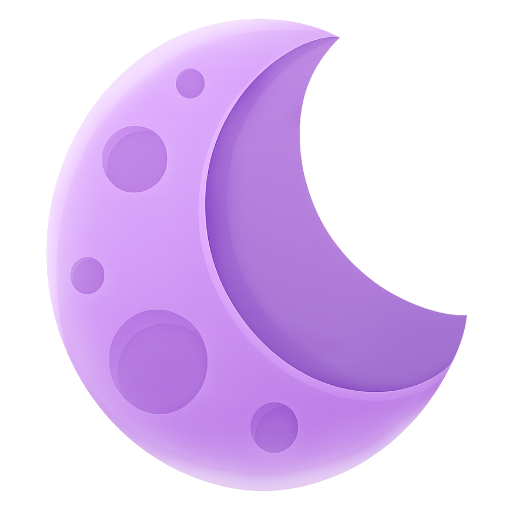
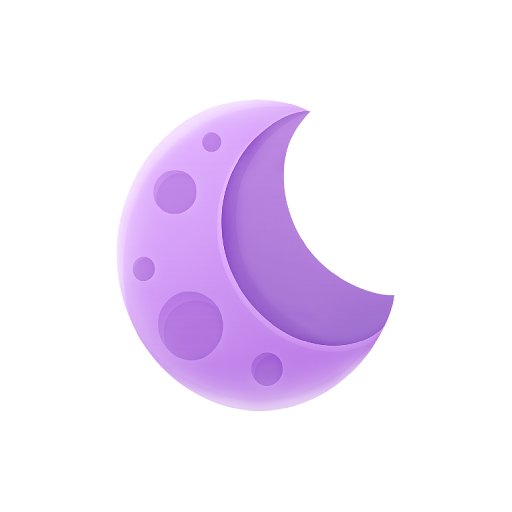
stable, undo edit

diff --git a/src/screens/components/UndoBubble.tsx b/src/screens/components/UndoBubble.tsx
@@ -1,5 +1,14 @@
 import { Undo2 } from "lucide-react-native";
-import { Animated, Pressable, StyleSheet, Text, View } from "react-native";
+import { useState } from "react";
+import { Pressable, Animated as RNAnimated, StyleSheet, Text } from "react-native";
+import { Gesture, GestureDetector } from "react-native-gesture-handler";
+import Animated, {
+	runOnJS,
+	useAnimatedStyle,
+	useSharedValue,
+	withSpring,
+	withTiming,
+} from "react-native-reanimated";
 import { colors } from "../../css/color";
 import { useScaleAnimation } from "./scaleAnim";
 
@@ -8,26 +17,67 @@ type Props = {
 	onUndo: () => void;
 };
 
+const SWIPE_THRESHOLD = 100;
+const SWIPE_VELOCITY_THRESHOLD = 800;
+
 export function UndoBubble({ name, onUndo }: Props) {
 	const { scale, pressIn, pressOut } = useScaleAnimation(0.9);
+	const [hidden, setHidden] = useState(false);
+	const translateX = useSharedValue(0);
+	const opacity = useSharedValue(1);
+
+	const panGesture = Gesture.Pan()
+		.activeOffsetX([-10, 10])
+		.onUpdate((event) => {
+			translateX.value = event.translationX;
+		})
+		.onEnd((event) => {
+			const shouldDismiss =
+				Math.abs(translateX.value) > SWIPE_THRESHOLD ||
+				Math.abs(event.velocityX) > SWIPE_VELOCITY_THRESHOLD;
+
+			if (shouldDismiss) {
+				const direction = translateX.value > 0 ? 1 : -1;
+				translateX.value = withTiming(direction * 500, { duration: 200 });
+				opacity.value = withTiming(0, { duration: 200 }, (finished) => {
+					if (finished) runOnJS(() => setHidden(true))();
+				});
+			} else {
+				translateX.value = withSpring(0);
+			}
+		});
+
+	const swipeStyle = useAnimatedStyle(() => ({
+		transform: [{ translateX: translateX.value }],
+		opacity: opacity.value,
+	}));
+
+	if (hidden) return null;
 
 	return (
-		<View style={styles.bar}>
-			<Text numberOfLines={1} style={styles.text}>
-				{name} deleted
-			</Text>
-			<Animated.View style={{ transform: [{ scale }] }}>
-				<Pressable style={styles.button} onPress={onUndo} onPressIn={pressIn} onPressOut={pressOut}>
-					{({ pressed }) => (
-						<Undo2
-							size={26}
-							color={pressed ? colors.button.accentHighlight : colors.text.accent}
-							strokeWidth={1.75}
-						/>
-					)}
-				</Pressable>
+		<GestureDetector gesture={panGesture}>
+			<Animated.View style={[styles.bar, swipeStyle]}>
+				<Text numberOfLines={3} style={styles.text}>
+					{name} deleted
+				</Text>
+				<RNAnimated.View style={{ transform: [{ scale }] }}>
+					<Pressable
+						style={styles.button}
+						onPress={onUndo}
+						onPressIn={pressIn}
+						onPressOut={pressOut}
+					>
+						{({ pressed }) => (
+							<Undo2
+								size={26}
+								color={pressed ? colors.button.accentHighlight : colors.text.accent}
+								strokeWidth={1.75}
+							/>
+						)}
+					</Pressable>
+				</RNAnimated.View>
 			</Animated.View>
-		</View>
+		</GestureDetector>
 	);
 }
 
@@ -35,8 +85,8 @@ const styles = StyleSheet.create({
 	bar: {
 		position: "absolute",
 		bottom: "10%",
-		left: "10%",
-		right: "10%",
+		left: "8%",
+		right: "8%",
 		backgroundColor: colors.bg.inputHighlight,
 		padding: 12,
 		borderRadius: 18,

diff --git a/src/screens/Home/HomeScreen.tsx b/src/screens/Home/HomeScreen.tsx
@@ -197,7 +197,9 @@ export function HomeScreen() {
 					)}
 				</View>
 
-				{pendingDelete && <UndoBubble name={pendingDelete.name} onUndo={handleUndo} />}
+				{pendingDelete && (
+					<UndoBubble key={pendingDelete.id} name={pendingDelete.name} onUndo={handleUndo} />
+				)}
 			</View>
 		</TouchableWithoutFeedback>
 	);
